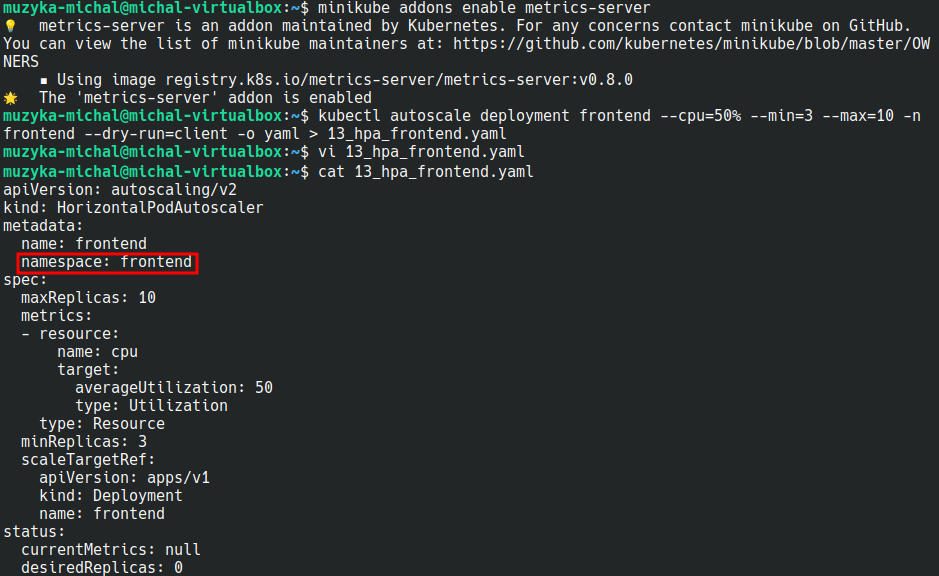
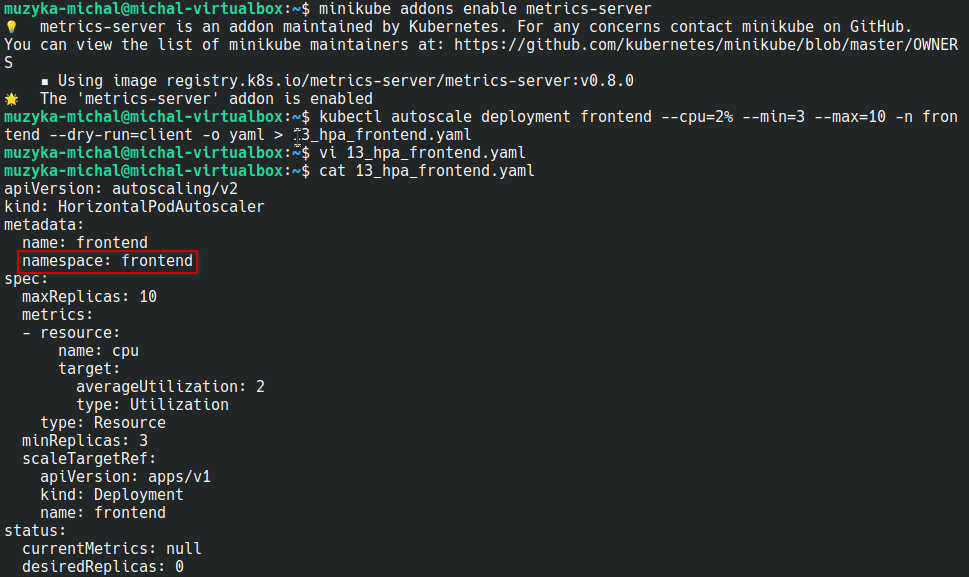
commit2

Changed region(s): [[0.0, 0.0, 1.0, 1.0]]

diff --git a/README.md b/README.md
@@ -51,6 +51,11 @@
 ![alt text](images/image-18.png)
 
 
+### Weryfikuję, czy pody Deploymentu frontend są na innych węzłach niż pod my-sql i pod Deploymentu backend i czy te drugie pody są na jednym węźle. Jest poprawnie.
+
+![alt text](images/image-24.png)
+
+
 ### Tworzę plik obiektu Service typu NodePort o nazwie frontend-svc dla Deploymentu frontend w przestrzeni nazw frontend. Usługa będzie na porcie 80.
 
 ![alt text](images/image-7.png)
@@ -120,15 +125,29 @@
 ![alt text](images/image-21.png)
 
 
-### Dodaję dodatek serwer metryk potrzebyn do wykonania zadania. Tworzę plik YAML obiektu HorizontalPodAutoscaler dla Deploymentu frontend w przestrzeni nazw frontend. Ustawiam docelowe średnie użycie CPU na 50%, minimalną liczbę podów 3 i maksymalną liczbę podów 10. Dodaję do wygenerowane pliku pole określające przestrzeń nazw.
+### Dodaję dodatek serwer metryk potrzebyn do wykonania zadania. Tworzę plik YAML obiektu HorizontalPodAutoscaler dla Deploymentu frontend w przestrzeni nazw frontend. Ustawiam docelowe średnie użycie CPU na 2%, (by szybko przekroczyło tę wartość i zaczęło zwiększać repliki) minimalną liczbę podów 3 i maksymalną liczbę podów 10. Dodaję do wygenerowane pliku pole określające przestrzeń nazw frontend.
 
 ![alt text](images/image-22.png)
-
 
 ### Aplikuję plik obiektu. Sprawdzam poprawność utworzenia. Po chwili obiekt zebrał dane i działa.
 
 ![alt text](images/image-23.png)
 
+
+### Tworzę plik YAML poda generującego obciążenie. Tworzę w przestrzeni nazw backend pod load-generator z etykietą app=backend, co pozwala na komunikację z frontendem zgodnie z polityką sieciową. Wewnątrz kontenera uruchamiam cztery równoległe pętle zapytań do serwisu frontendowego, aby wygenerować wystarczające obciążenie CPU, aby HPA zadziałało. Ustawiam zasoby request i limits poda uwzględniając przy tym wymogi ResourceQuota przestrzeni nazw backend. Aplikuję plik obiektu. Pod działa.
+
+![alt text](images/image-25.png)
+
+![alt text](images/image-29.png)
+
+
+### Jak widać wartość średniego użycia CPU na 2% szybko została przekroczona i autoskaler zaczął powielać pody frontendu do maksymalnej wartości 10 podów. Po usunięciu poda generującego obciążenie zużycie CPU znowu spadło poniżej 2%, a po pewnym czasie liczba replik zmniejszyła się do minimalnej wartości 3 podów.  
+
+![alt text](images/image-26.png)
+
+![alt text](images/image-28.png)
+
+![alt text](images/image-27.png)
 
 
 
